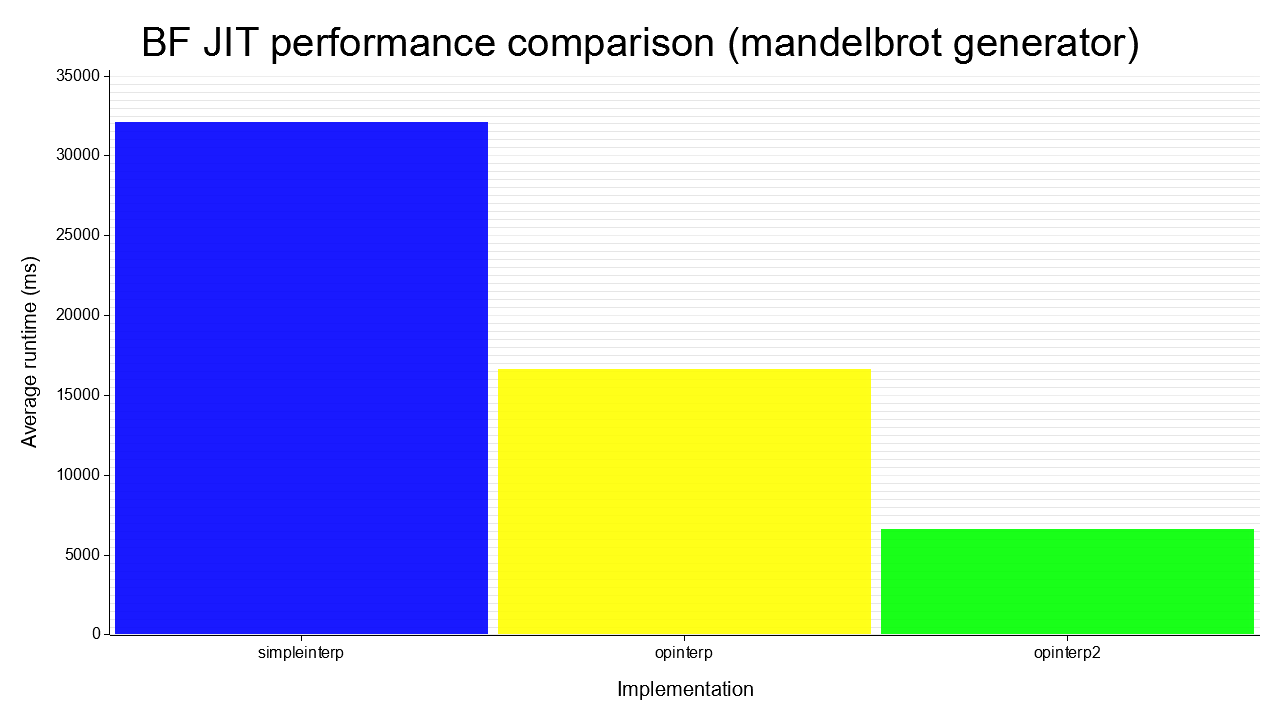
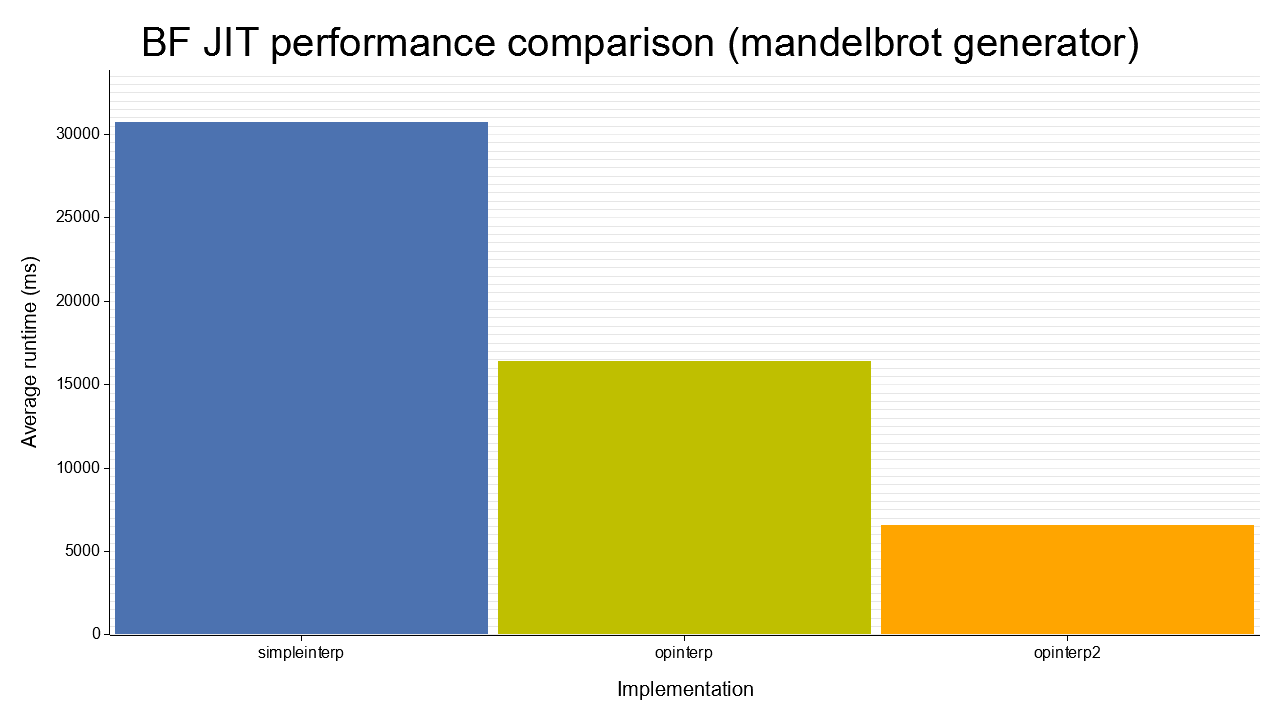
Improve colors

diff --git a/bench/src/lib.rs b/bench/src/lib.rs
@@ -5,13 +5,17 @@ use {
         coord::ranged1d::{IntoSegmentedCoord, SegmentValue},
         drawing::IntoDrawingArea,
         series::Histogram,
-        style::{Color, BLUE, GREEN, WHITE, YELLOW},
+        style::{Color, RGBColor, WHITE},
     },
     std::{fs, time::Instant},
     util::{BfError, RunFunction},
 };
 
 const RESOLUTION: (u32, u32) = (1280, 720);
+
+const BAR1_COLOR: RGBColor = RGBColor(76, 114, 176);
+const BAR2_COLOR: RGBColor = RGBColor(191, 191, 0);
+const BAR3_COLOR: RGBColor = RGBColor(255, 165, 0);
 
 struct ImplInfo {
     name: &'static str,
@@ -130,9 +134,9 @@ fn create_graph<const N: usize>(
     chart.draw_series(
         Histogram::vertical(&chart)
             .style_func(|value, _millis| match **segmented_value_to_inner(value) {
-                "simpleinterp" => BLUE.mix(0.9).filled(),
-                "opinterp" => YELLOW.mix(0.9).filled(),
-                "opinterp2" => GREEN.mix(0.9).filled(),
+                "simpleinterp" => BAR1_COLOR.filled(),
+                "opinterp" => BAR2_COLOR.filled(),
+                "opinterp2" => BAR3_COLOR.filled(),
                 _ => unreachable!(),
             })
             .data(perf_millis.iter().map(|x| (&x.name, x.millis))),
